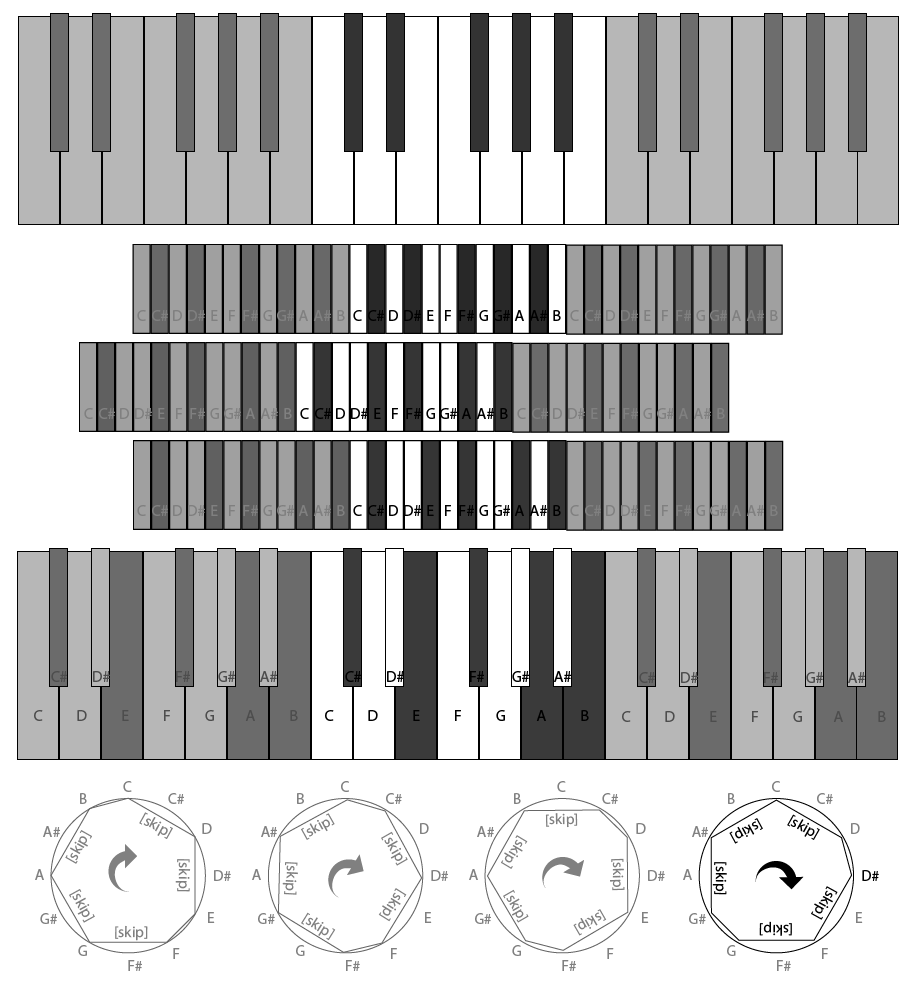
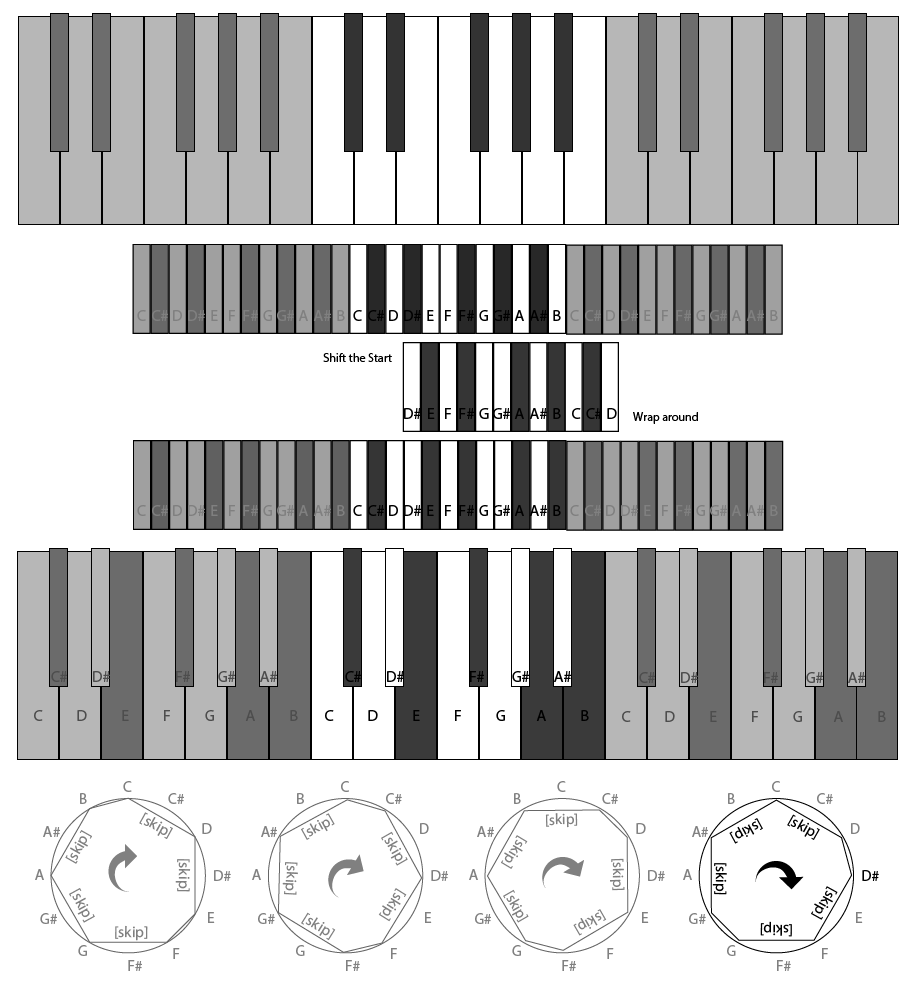
CLEANUP: add the shift

Changed region(s): [[0.0611, 0.3407, 0.7948, 0.4336]]

diff --git a/musicTest/static/js/main.6408dc8d.chunk.js b/musicTest/static/js/main.6408dc8d.chunk.js
@@ -1,0 +1,2 @@
+(window.webpackJsonp=window.webpackJsonp||[]).push([[0],[,,,,,,,,,,,,,function(e,t,a){e.exports=a(29)},,,,,,function(e,t,a){},function(e,t,a){},function(e,t,a){},function(e,t,a){},,,,,function(e,t,a){},function(e,t,a){},function(e,t,a){"use strict";a.r(t);var l=a(0),n=a.n(l),s=a(9),c=a.n(s),r=(a(19),a(1)),m=a(2),i=a(5),y=a(3),o=a(4),h=(a(20),a(21),function(e){return n.a.createElement("div",{className:"content"},e.children)}),p=function(e){return n.a.createElement("img",{className:"img-fluid",src:e.src,alt:e.alt})},E=function(e){return n.a.createElement("div",{className:"section",id:e.id},e.children)},u=(a(22),function(e){return n.a.createElement("div",{className:"major-break"},"\xa0")}),d=function(e){function t(e){return Object(r.a)(this,t),Object(i.a)(this,Object(y.a)(t).call(this))}return Object(o.a)(t,e),Object(m.a)(t,[{key:"render",value:function(){return n.a.createElement("div",{className:"Writeup"},n.a.createElement("hr",null),n.a.createElement("h1",{className:"header",id:"quick_writeup"},"Quick Description"),n.a.createElement(E,{id:"take_this_keyboard"},n.a.createElement("h2",null,"Let's take this keyboard..."),n.a.createElement(p,{src:"img/musicWriteup_pianoKeys.png",alt:"Basic Piano Keyboard"}),n.a.createElement(h,null,"Notice that there is a pattern that is repeated three times (the center repitition is highlighted for clarity)."),n.a.createElement(h,null,"Each pattern is what is called an octave, with each key representing a musical note."),n.a.createElement(h,null,"(Note that the shapes of the keys are significant - the white keys are Staff notes and the dark keys are the Sharp (#) notes.)"),n.a.createElement(p,{src:"img/musicWriteup_take_this_keyboard.png",alt:"Keyboard with black keys spaced out the same as the white keys"}),n.a.createElement(h,null,"For the purposes of this dicussion, the shape of the keys more indicate the scale of C Major and can cause confusion with other scales"),n.a.createElement(h,null,"So we will be mostly focusing on a smaller version of this same keyboard where all the keys are the same size."),n.a.createElement("hr",null)),n.a.createElement(u,null),n.a.createElement(E,{id:"semitone-wheel"},n.a.createElement("h2",null,"Octaves are Patterns"),n.a.createElement(h,null,'An "Octave" is the pattern that repeats. This can mean from C to the next C or the previous C.'),n.a.createElement(p,{src:"img/musicWriteup_octaves.png",alt:"Octave is the distance between the same tone."}),n.a.createElement(h,null,"Note that all notes have Octaves going up or down. It just is a matter of perspective."),n.a.createElement(p,{src:"img/musicWriteup_octaves-shift.png",alt:"An Octave starts from any key, not just C"}),n.a.createElement(h,null,"Each note represents a specific sound frequency. "),n.a.createElement(h,null,"The difference in going up an octave or down an octave of any note is doubling or halving the frequency respectively)"),n.a.createElement(p,{src:"img/musicWriteup_sine-wave.png",alt:"Sine-Wave moving up one octave and down one octave"}),n.a.createElement(h,null,"With 12 notes between octaves, each note can be thought of as an equal 1/12th logrithmic step between octaves. This applies for both white and black keys."),n.a.createElement(p,{src:"img/musicWriteup_play_all_the_keys.png",alt:"All keys in an octave are each semitones"}),n.a.createElement(h,null,"Sometimes this can best be thought of like a circle, with 12 notes written around."),n.a.createElement(p,{src:"img/musicWriteup_semitone-wheel.png",alt:"Circle with a 12 point polygon inscribed"}),n.a.createElement(h,null,"Each trip around the circle is then a new octave. Moving Clockwise goes up an Octave. Moving Counter-Clockwise goes down an Octave."),n.a.createElement("hr",null)),n.a.createElement(u,null),n.a.createElement("h2",null,"Play keys and Skip keys"),n.a.createElement(E,{id:"start-of-major-scales"},n.a.createElement(p,{src:"img/musicWriteup_pianoKeys.png",alt:"piano keys"}),n.a.createElement(h,null,"Lets take a closer look at the scale of C-Major..."),n.a.createElement("div",{className:"content center-align"},n.a.createElement("table",{className:"explaination-table"},n.a.createElement("thead",null,n.a.createElement("tr",null,n.a.createElement("th",null,"C"),n.a.createElement("th",null,"C#"),n.a.createElement("th",null,"D"),n.a.createElement("th",null,"D#"),n.a.createElement("th",null,"E"),n.a.createElement("th",null,"F"),n.a.createElement("th",null,"F#"),n.a.createElement("th",null,"G"),n.a.createElement("th",null,"G#"),n.a.createElement("th",null,"A"),n.a.createElement("th",null,"A#"),n.a.createElement("th",null,"B"))),n.a.createElement("tbody",null,n.a.createElement("tr",null,n.a.createElement("td",{className:"play-key start-key"},"Play Key"),n.a.createElement("td",{className:"skip-key"},"Skip Key"),n.a.createElement("td",{className:"play-key"},"Play Key"),n.a.createElement("td",{className:"skip-key"},"Skip Key"),n.a.createElement("td",{className:"play-key"},"Play Key"),n.a.createElement("td",{className:"play-key"},"Play Key"),n.a.createElement("td",{className:"skip-key"},"Skip Key"),n.a.createElement("td",{className:"play-key"},"Play Key"),n.a.createElement("td",{className:"skip-key"},"Skip Key"),n.a.createElement("td",{className:"play-key"},"Play Key"),n.a.createElement("td",{className:"skip-key"},"Skip Key"),n.a.createElement("td",{className:"play-key"},"Play Key"))))),n.a.createElement(h,null,"Note that the key of C-Major aligns pretty well with the keyboard above. ",n.a.createElement("br",null)," The ",n.a.createElement("b",null,"Lighter colored keys")," are the ",n.a.createElement("b",null,"'Play' keys"),", and the ",n.a.createElement("b",null,"darker colored keys")," are the ",n.a.createElement("b",null,"'Skip' keys"),"."),n.a.createElement("hr",null)),n.a.createElement(E,{id:"shift-d-minor"},n.a.createElement(h,null,"This is the scale of C#-Major (C-Sharp Major). Notice anything similar?"),n.a.createElement("table",{className:"explaination-table"},n.a.createElement("thead",null,n.a.createElement("tr",null,n.a.createElement("th",null,"C"),n.a.createElement("th",null,"C#"),n.a.createElement("th",null,"D"),n.a.createElement("th",null,"D#"),n.a.createElement("th",null,"E"),n.a.createElement("th",null,"F"),n.a.createElement("th",null,"F#"),n.a.createElement("th",null,"G"),n.a.createElement("th",null,"G#"),n.a.createElement("th",null,"A"),n.a.createElement("th",null,"A#"),n.a.createElement("th",null,"B"))),n.a.createElement("tbody",null,n.a.createElement("tr",null,n.a.createElement("td",{className:"play-key"},"Play Key"),n.a.createElement("td",{className:"play-key start-key"},"Play Key"),n.a.createElement("td",{className:"skip-key"},"Skip Key"),n.a.createElement("td",{className:"play-key"},"Play Key"),n.a.createElement("td",{className:"skip-key"},"Skip Key"),n.a.createElement("td",{className:"play-key"},"Play Key"),n.a.createElement("td",{className:"play-key"},"Play Key"),n.a.createElement("td",{className:"skip-key"},"Skip Key"),n.a.createElement("td",{className:"play-key"},"Play Key"),n.a.createElement("td",{className:"skip-key"},"Skip Key"),n.a.createElement("td",{className:"play-key"},"Play Key"),n.a.createElement("td",{className:"skip-key"},"Skip Key")))),n.a.createElement("hr",null)),n.a.createElement(E,{id:"shift-d-major"},n.a.createElement("span",null,"This is the scale of D-Major."),n.a.createElement("table",{className:"explaination-table"},n.a.createElement("thead",null,n.a.createElement("tr",null,n.a.createElement("th",null,"C"),n.a.createElement("th",null,"C#"),n.a.createElement("th",null,"D"),n.a.createElement("th",null,"D#"),n.a.createElement("th",null,"E"),n.a.createElement("th",null,"F"),n.a.createElement("th",null,"F#"),n.a.createElement("th",null,"G"),n.a.createElement("th",null,"G#"),n.a.createElement("th",null,"A"),n.a.createElement("th",null,"A#"),n.a.createElement("th",null,"B"))),n.a.createElement("tbody",null,n.a.createElement("tr",null,n.a.createElement("td",{className:"skip-key"},"Skip Key"),n.a.createElement("td",{className:"play-key"},"Play Key"),n.a.createElement("td",{className:"play-key start-key"},"Play Key"),n.a.createElement("td",{className:"skip-key"},"Skip Key"),n.a.createElement("td",{className:"play-key"},"Play Key"),n.a.createElement("td",{className:"skip-key"},"Skip Key"),n.a.createElement("td",{className:"play-key"},"Play Key"),n.a.createElement("td",{className:"play-key"},"Play Key"),n.a.createElement("td",{className:"skip-key"},"Skip Key"),n.a.createElement("td",{className:"play-key"},"Play Key"),n.a.createElement("td",{className:"skip-key"},"Skip Key"),n.a.createElement("td",{className:"play-key"},"Play Key")))),n.a.createElement("hr",null)),n.a.createElement(E,{id:"shift-e-minor"},n.a.createElement("span",null,"This is the scale of D#-Major."),n.a.createElement("table",{className:"explaination-table"},n.a.createElement("thead",null,n.a.createElement("tr",null,n.a.createElement("th",null,"C"),n.a.createElement("th",null,"C#"),n.a.createElement("th",null,"D"),n.a.createElement("th",null,"D#"),n.a.createElement("th",null,"E"),n.a.createElement("th",null,"F"),n.a.createElement("th",null,"F#"),n.a.createElement("th",null,"G"),n.a.createElement("th",null,"G#"),n.a.createElement("th",null,"A"),n.a.createElement("th",null,"A#"),n.a.createElement("th",null,"B"))),n.a.createElement("tbody",null,n.a.createElement("tr",null,n.a.createElement("td",{className:"play-key"},"Play Key"),n.a.createElement("td",{className:"skip-key"},"Skip Key"),n.a.createElement("td",{className:"play-key"},"Play Key"),n.a.createElement("td",{className:"play-key start-key"},"Play Key"),n.a.createElement("td",{className:"skip-key"},"Skip Key"),n.a.createElement("td",{className:"play-key"},"Play Key"),n.a.createElement("td",{className:"skip-key"},"Skip Key"),n.a.createElement("td",{className:"play-key"},"Play Key"),n.a.createElement("td",{className:"play-key"},"Play Key"),n.a.createElement("td",{className:"skip-key"},"Skip Key"),n.a.createElement("td",{className:"play-key"},"Play Key"),n.a.createElement("td",{className:"skip-key"},"Skip Key")))),n.a.createElement(h,null,"Did you notice a pattern?"),n.a.createElement(h,null,"We are simply shifting the start of the pattern"),n.a.createElement(p,{src:"img/musicWriteup_shifting_start.png",alt:"Shift the start"}),n.a.createElement("hr",null)),n.a.createElement(u,null),n.a.createElement(E,{id:"major-scale-wheel"},n.a.createElement(h,null,"Lets take a look at the key of C-Major again."),n.a.createElement("div",{className:"content center-align"},n.a.createElement("table",{className:"explaination-table"},n.a.createElement("thead",null,n.a.createElement("tr",null,n.a.createElement("th",null,"C"),n.a.createElement("th",null,"C#"),n.a.createElement("th",null,"D"),n.a.createElement("th",null,"D#"),n.a.createElement("th",null,"E"),n.a.createElement("th",null,"F"),n.a.createElement("th",null,"F#"),n.a.createElement("th",null,"G"),n.a.createElement("th",null,"G#"),n.a.createElement("th",null,"A"),n.a.createElement("th",null,"A#"),n.a.createElement("th",null,"B"))),n.a.createElement("tbody",null,n.a.createElement("tr",null,n.a.createElement("td",{className:"play-key start-key"},"Play Key"),n.a.createElement("td",{className:"skip-key"},"Skip Key"),n.a.createElement("td",{className:"play-key"},"Play Key"),n.a.createElement("td",{className:"skip-key"},"Skip Key"),n.a.createElement("td",{className:"play-key"},"Play Key"),n.a.createElement("td",{className:"play-key"},"Play Key"),n.a.createElement("td",{className:"skip-key"},"Skip Key"),n.a.createElement("td",{className:"play-key"},"Play Key"),n.a.createElement("td",{className:"skip-key"},"Skip Key"),n.a.createElement("td",{className:"play-key"},"Play Key"),n.a.createElement("td",{className:"skip-key"},"Skip Key"),n.a.createElement("td",{className:"play-key"},"Play Key"))))),n.a.createElement(h,null),n.a.createElement("hr",null)),n.a.createElement(E,{id:"play-all-keys"},n.a.createElement(h,null,"For the C-Major scale, we only play the white keys."),n.a.createElement(p,{src:"img/musicWriteup_take_this_keyboard.png",alt:"Keyboard with black keys spaced out the same as the white keys"}),n.a.createElement(h,null,'Yet each "Octave" is a pattern that repeats, meaning the pattern might be better represented in a wheel...'),n.a.createElement(p,{src:"img/musicWriteup_c-semitone-wheel.png",alt:"C Major represented as a polygon"}),n.a.createElement(h,null,"For the purpose of scales, we only need to play the lighter colored keys, but we can choose which keys they are."),n.a.createElement("table",{className:"explaination-table"},n.a.createElement("thead",null,n.a.createElement("tr",null,n.a.createElement("th",null,"Key"),n.a.createElement("th",null,"C"),n.a.createElement("th",null,"C#"),n.a.createElement("th",null,"D"),n.a.createElement("th",null,"D#"),n.a.createElement("th",null,"E"),n.a.createElement("th",null,"F"),n.a.createElement("th",null,"F#"),n.a.createElement("th",null,"G"),n.a.createElement("th",null,"G#"),n.a.createElement("th",null,"A"),n.a.createElement("th",null,"A#"),n.a.createElement("th",null,"B"))),n.a.createElement("tbody",null,n.a.createElement("tr",null,n.a.createElement("td",{className:""},"C"),n.a.createElement("td",{className:"play-key start-key"},"Play Key"),n.a.createElement("td",{className:"skip-key"},"Skip Key"),n.a.createElement("td",{className:"play-key"},"Play Key"),n.a.createElement("td",{className:"skip-key"},"Skip Key"),n.a.createElement("td",{className:"play-key"},"Play Key"),n.a.createElement("td",{className:"play-key"},"Play Key"),n.a.createElement("td",{className:"skip-key"},"Skip Key"),n.a.createElement("td",{className:"play-key"},"Play Key"),n.a.createElement("td",{className:"skip-key"},"Skip Key"),n.a.createElement("td",{className:"play-key"},"Play Key"),n.a.createElement("td",{className:"skip-key"},"Skip Key"),n.a.createElement("td",{className:"play-key"},"Play Key")),n.a.createElement("tr",null,n.a.createElement("td",{className:""},"C#"),n.a.createElement("td",{className:"play-key"},"Play Key"),n.a.createElement("td",{className:"play-key start-key"},"Play Key"),n.a.createElement("td",{className:"skip-key"},"Skip Key"),n.a.createElement("td",{className:"play-key"},"Play Key"),n.a.createElement("td",{className:"skip-key"},"Skip Key"),n.a.createElement("td",{className:"play-key"},"Play Key"),n.a.createElement("td",{className:"play-key"},"Play Key"),n.a.createElement("td",{className:"skip-key"},"Skip Key"),n.a.createElement("td",{className:"play-key"},"Play Key"),n.a.createElement("td",{className:"skip-key"},"Skip Key"),n.a.createElement("td",{className:"play-key"},"Play Key"),n.a.createElement("td",{className:"skip-key"},"Skip Key")),n.a.createElement("tr",null,n.a.createElement("td",{className:""},"D"),n.a.createElement("td",{className:"skip-key"},"Skip Key"),n.a.createElement("td",{className:"play-key"},"Play Key"),n.a.createElement("td",{className:"play-key start-key"},"Play Key"),n.a.createElement("td",{className:"skip-key"},"Skip Key"),n.a.createElement("td",{className:"play-key"},"Play Key"),n.a.createElement("td",{className:"skip-key"},"Skip Key"),n.a.createElement("td",{className:"play-key"},"Play Key"),n.a.createElement("td",{className:"play-key"},"Play Key"),n.a.createElement("td",{className:"skip-key"},"Skip Key"),n.a.createElement("td",{className:"play-key"},"Play Key"),n.a.createElement("td",{className:"skip-key"},"Skip Key"),n.a.createElement("td",{className:"play-key"},"Play Key")),n.a.createElement("tr",null,n.a.createElement("td",{className:""},"D#"),n.a.createElement("td",{className:"play-key"},"Play Key"),n.a.createElement("td",{className:"skip-key"},"Skip Key"),n.a.createElement("td",{className:"play-key"},"Play Key"),n.a.createElement("td",{className:"play-key start-key"},"Play Key"),n.a.createElement("td",{className:"skip-key"},"Skip Key"),n.a.createElement("td",{className:"play-key"},"Play Key"),n.a.createElement("td",{className:"skip-key"},"Skip Key"),n.a.createElement("td",{className:"play-key"},"Play Key"),n.a.createElement("td",{className:"play-key"},"Play Key"),n.a.createElement("td",{className:"skip-key"},"Skip Key"),n.a.createElement("td",{className:"play-key"},"Play Key"),n.a.createElement("td",{className:"skip-key"},"Skip Key")))),n.a.createElement("hr",null)),n.a.createElement(E,{id:"shift-in-pictures"},n.a.createElement("h2",null,"Lets look at them all together."),n.a.createElement(h,null,"Instead of representing the dark physical keys on the keyboard, we are paying attention to which keys to play or skip instead."),n.a.createElement(p,{src:"img/musicWriteup_striaghten_out_shifts.png",alt:"straighten up the shifted keys"}),n.a.createElement(h,null,"Thinking again in terms of the wheel, this just means we are just rotating the pattern around on the keys."),n.a.createElement(p,{src:"img/musicWriteup_c-semitone-wheel-together.png",alt:"Rotating the Semitone circle one 1/12th of the way around"}),n.a.createElement(h,null,"Notice we're just shifting which key is considered the starting key and where we start the pattern."),n.a.createElement(p,{src:"img/musicWriteup_shifting_start.png",alt:"Shift the pattern on where we start"}),n.a.createElement(h,null,"And because the notes are in a circle, the notes from below shift up-aswell."),n.a.createElement(p,{src:"img/musicWriteup_striaghten_out_shifts.png",alt:"shifting keys"}),n.a.createElement("hr",null)),n.a.createElement(E,{id:"shift-example-1"},n.a.createElement("h2",null,"Let's look closer at C#-Major"),n.a.createElement(p,{src:"img/musicWriteup_shift_1_d_minor.png",alt:"C-Major shift"}),n.a.createElement(h,null,"Playing only those Light Keys gives the Key of C-Major"),n.a.createElement("hr",null)),n.a.createElement(E,{id:"shift-example-2"},n.a.createElement("h2",null,"Let's look closer at D#-Major"),n.a.createElement(p,{src:"img/musicWriteup_shift_3_e_minor.png",alt:"D-Major shift"}),n.a.createElement(h,null,"Playing only those Light Keys gives the Key of D-Major")),n.a.createElement(u,null),n.a.createElement(E,{id:"virtual-keyboard"},n.a.createElement(h,null,"Or you can change the key in the virtual keyboard above and hear the tones yourself"),n.a.createElement(p,{src:"img/virtualKeyboard.png",alt:"virtual-keyboard"})))}}]),t}(l.Component),k=a(6),f=a(10),K=a.n(f),N=(a(27),function(e){function t(e){var a;Object(r.a)(this,t);var l=(a=Object(i.a)(this,Object(y.a)(t).call(this))).determineIfSharp(e.type);return a.state={isDown:!1,audioFile:a.calculateAudioFile(e.level,e.note,e.type,l),noteLabel:a.calculateNoteLabel(e.level,e.note,e.type,e.keyOffset,l),cssClasses:a.calculateCssClasses(e.note,e.keyOffset,e.selectedOffsets,l)},a}return Object(o.a)(t,e),Object(m.a)(t,[{key:"determineIfSharp",value:function(e){return"sharp"===e}},{key:"calculateAudioFile",value:function(e,t,a,l){return"lq/"+e+"_"+t+"_"+(l?"sharp":"_____")+"_lo.mp3"}},{key:"calculateNoteLabel",value:function(e,t,a,l,n){return"".concat(e," - ").concat(t).concat(n?"#":"")}},{key:"calculateCssClasses",value:function(e,t,a,l){return"note offset-".concat(t," note-").concat(e?e.toLowerCase():"").concat(l?"-sharp":"")}},{key:"handleFinishedPlaying",value:function(){this.setState(function(e){return{isDown:!1}})}},{key:"toggleIsDown",value:function(){this.setState(function(e){return{isDown:!e.isDown}})}},{key:"render",value:function(){var e=this,t=!1;return this.props.selectedKeyOffsets&&(t=this.props.selectedKeyOffsets.includes(this.props.keyOffset)),n.a.createElement("td",{className:this.state.cssClasses+" "+(this.state.isDown?"playing":"")+" "+(t?"selected":""),onClick:function(t){return e.toggleIsDown(!0,t)}},n.a.createElement("span",{title:this.audioFile},this.state.noteLabel),n.a.createElement(K.a,{url:this.state.audioFile,playStatus:this.state.isDown?"PLAYING":"STOPPED",onFinishedPlaying:function(t){return e.handleFinishedPlaying(t)}}))}}]),t}(l.Component)),g=function(e){function t(e){return Object(r.a)(this,t),Object(i.a)(this,Object(y.a)(t).call(this))}return Object(o.a)(t,e),Object(m.a)(t,[{key:"render",value:function(){return n.a.createElement("tr",{className:"octave"},n.a.createElement(N,{level:this.props.level,note:"C",type:"standard",keyOffset:1,selectedKeyOffsets:this.props.selectedKeyOffsets}),n.a.createElement(N,{level:this.props.level,note:"C",type:"sharp",keyOffset:2,selectedKeyOffsets:this.props.selectedKeyOffsets}),n.a.createElement(N,{level:this.props.level,note:"D",type:"standard",keyOffset:3,selectedKeyOffsets:this.props.selectedKeyOffsets}),n.a.createElement(N,{level:this.props.level,note:"D",type:"sharp",keyOffset:4,selectedKeyOffsets:this.props.selectedKeyOffsets}),n.a.createElement(N,{level:this.props.level,note:"E",type:"standard",keyOffset:5,selectedKeyOffsets:this.props.selectedKeyOffsets}),n.a.createElement(N,{level:this.props.level,note:"F",type:"standard",keyOffset:6,selectedKeyOffsets:this.props.selectedKeyOffsets}),n.a.createElement(N,{level:this.props.level,note:"F",type:"sharp",keyOffset:7,selectedKeyOffsets:this.props.selectedKeyOffsets}),n.a.createElement(N,{level:this.props.level,note:"G",type:"standard",keyOffset:8,selectedKeyOffsets:this.props.selectedKeyOffsets}),n.a.createElement(N,{level:this.props.level,note:"G",type:"sharp",keyOffset:9,selectedKeyOffsets:this.props.selectedKeyOffsets}),n.a.createElement(N,{level:this.props.level,note:"A",type:"standard",keyOffset:10,selectedKeyOffsets:this.props.selectedKeyOffsets}),n.a.createElement(N,{level:this.props.level,note:"A",type:"sharp",keyOffset:11,selectedKeyOffsets:this.props.selectedKeyOffsets}),n.a.createElement(N,{level:this.props.level,note:"B",type:"standard",keyOffset:12,selectedKeyOffsets:this.props.selectedKeyOffsets}))}}]),t}(l.Component),v=a(12),b=[1,3,5,6,8,10,12],O=function(e){function t(e){var a;return Object(r.a)(this,t),(a=Object(i.a)(this,Object(y.a)(t).call(this))).handleSelectChanged=a.handleSelectChanged.bind(Object(k.a)(Object(k.a)(a)),!1),a}return Object(o.a)(t,e),Object(m.a)(t,[{key:"mapKey",value:function(e){return b.map(function(t){return(t-1+e)%12+1})}},{key:"handleSelectChanged",value:function(e){console.log("change occurred");var t=document.getElementById("key-selector").value.split(":"),a=Object(v.a)(t,2),l=a[0],n=a[1],s=0;try{s=parseInt(l)}catch(r){}var c=this.mapKey(s);console.log(c),this.props.onKeyChange(c,n,e)}},{key:"render",value:function(){return n.a.createElement("form",{className:"KeySelector"},n.a.createElement("span",null,"Which key should we select?"),n.a.createElement("select",{id:"key-selector",onChange:this.handleSelectChanged},n.a.createElement("option",{value:"0:c-std"},"C"),n.a.createElement("option",{value:"1:c-major"},"C Major"),n.a.createElement("option",{value:"2:d-std"},"D"),n.a.createElement("option",{value:"3:d-major"},"D Major"),n.a.createElement("option",{value:"4:e-std"},"E"),n.a.createElement("option",{value:"5:f-std"},"F"),n.a.createElement("option",{value:"6:f-major"},"F Major"),n.a.createElement("option",{value:"7:g-std"},"G"),n.a.createElement("option",{value:"8:g-major"},"G Major"),n.a.createElement("option",{value:"9:a-std"},"A"),n.a.createElement("option",{value:"10:a-major"},"A Major"),n.a.createElement("option",{value:"11:b-std"},"B")))}}]),t}(l.Component),P=a(11),w=(a(28),[1,3,5,6,8,10,12]),j=function(e){function t(e){var a;return Object(r.a)(this,t),(a=Object(i.a)(this,Object(y.a)(t).call(this))).state={selectedOffsets:w,keyName:"c-std"},a.handleKeyChanged=a.handleKeyChanged.bind(Object(k.a)(Object(k.a)(a))),a}return Object(o.a)(t,e),Object(m.a)(t,[{key:"componentDidMount",value:function(){P.soundManager.setup({autoLoad:!0,ignoreMobileRestrictions:!0})}},{key:"handleKeyChanged",value:function(e,t,a){console.log("app registered the key changed"),this.setState(function(a){return{selectedOffsets:e,keyName:t}})}},{key:"render",value:function(){return n.a.createElement("div",{className:"VirtualPiano ".concat(this.state.keyName)},n.a.createElement("table",null,n.a.createElement("thead",null,n.a.createElement("tr",null,n.a.createElement("th",{className:"header note-c"},"C "),n.a.createElement("th",{className:"header note-c-sharp"},"C#"),n.a.createElement("th",{className:"header note-d"},"D"),n.a.createElement("th",{className:"header note-d-sharp"},"D#"),n.a.createElement("th",{className:"header note-e"},"E"),n.a.createElement("th",{className:"header note-f"},"F"),n.a.createElement("th",{className:"header note-f-sharp"},"F#"),n.a.createElement("th",{className:"header note-g"},"G"),n.a.createElement("th",{className:"header note-g-sharp"},"G#"),n.a.createElement("th",{className:"header note-a"},"A"),n.a.createElement("th",{className:"header note-a-sharp"},"A#"),n.a.createElement("th",{className:"header note-b"},"B"))),n.a.createElement("tbody",null,n.a.createElement("tr",null,n.a.createElement("td",{colSpan:"12"},n.a.createElement(O,{onKeyChange:this.handleKeyChanged}))),n.a.createElement(g,{level:"1",selectedKeyOffsets:this.state.selectedOffsets}),n.a.createElement(g,{level:"2",selectedKeyOffsets:this.state.selectedOffsets}),n.a.createElement(g,{level:"3",selectedKeyOffsets:this.state.selectedOffsets}),n.a.createElement(g,{level:"4",selectedKeyOffsets:this.state.selectedOffsets}),n.a.createElement(g,{level:"5",selectedKeyOffsets:this.state.selectedOffsets}),n.a.createElement(g,{level:"6",selectedKeyOffsets:this.state.selectedOffsets}),n.a.createElement(g,{level:"7",selectedKeyOffsets:this.state.selectedOffsets}))))}}]),t}(l.Component),S=function(e){function t(e){return Object(r.a)(this,t),Object(i.a)(this,Object(y.a)(t).call(this))}return Object(o.a)(t,e),Object(m.a)(t,[{key:"render",value:function(){return n.a.createElement("div",{className:"App"},n.a.createElement(j,null),n.a.createElement(d,null))}}]),t}(l.Component);Boolean("localhost"===window.location.hostname||"[::1]"===window.location.hostname||window.location.hostname.match(/^127(?:\.(?:25[0-5]|2[0-4][0-9]|[01]?[0-9][0-9]?)){3}$/));c.a.render(n.a.createElement(S,null),document.getElementById("root")),"serviceWorker"in navigator&&navigator.serviceWorker.ready.then(function(e){e.unregister()})}],[[13,1,2]]]);
+//# sourceMappingURL=main.6408dc8d.chunk.js.map

diff --git a/musicTest/index.html b/musicTest/index.html
@@ -1,1 +1,1 @@
-<!doctype html><html lang="en"><head><meta charset="utf-8"/><link rel="shortcut icon" href="/musicTest/favicon.ico"/><link rel="stylesheet" href="https://stackpath.bootstrapcdn.com/bootstrap/4.3.1/css/bootstrap.min.css" integrity="sha384-ggOyR0iXCbMQv3Xipma34MD+dH/1fQ784/j6cY/iJTQUOhcWr7x9JvoRxT2MZw1T" crossorigin="anonymous"><meta name="viewport" content="width=device-width,initial-scale=1,shrink-to-fit=no"/><meta name="theme-color" content="#000000"/><link rel="manifest" href="/musicTest/manifest.json"/><title>Understanding Music Scales</title><link href="/musicTest/static/css/main.3e971f3a.chunk.css" rel="stylesheet"></head><body><noscript>You need to enable JavaScript to run this app.</noscript><div id="root"></div><script>!function(l){function e(e){for(var r,t,n=e[0],o=e[1],u=e[2],i=0,f=[];i<n.length;i++)t=n[i],c[t]&&f.push(c[t][0]),c[t]=0;for(r in o)Object.prototype.hasOwnProperty.call(o,r)&&(l[r]=o[r]);for(s&&s(e);f.length;)f.shift()();return p.push.apply(p,u||[]),a()}function a(){for(var e,r=0;r<p.length;r++){for(var t=p[r],n=!0,o=1;o<t.length;o++){var u=t[o];0!==c[u]&&(n=!1)}n&&(p.splice(r--,1),e=i(i.s=t[0]))}return e}var t={},c={1:0},p=[];function i(e){if(t[e])return t[e].exports;var r=t[e]={i:e,l:!1,exports:{}};return l[e].call(r.exports,r,r.exports,i),r.l=!0,r.exports}i.m=l,i.c=t,i.d=function(e,r,t){i.o(e,r)||Object.defineProperty(e,r,{enumerable:!0,get:t})},i.r=function(e){"undefined"!=typeof Symbol&&Symbol.toStringTag&&Object.defineProperty(e,Symbol.toStringTag,{value:"Module"}),Object.defineProperty(e,"__esModule",{value:!0})},i.t=function(r,e){if(1&e&&(r=i(r)),8&e)return r;if(4&e&&"object"==typeof r&&r&&r.__esModule)return r;var t=Object.create(null);if(i.r(t),Object.defineProperty(t,"default",{enumerable:!0,value:r}),2&e&&"string"!=typeof r)for(var n in r)i.d(t,n,function(e){return r[e]}.bind(null,n));return t},i.n=function(e){var r=e&&e.__esModule?function(){return e.default}:function(){return e};return i.d(r,"a",r),r},i.o=function(e,r){return Object.prototype.hasOwnProperty.call(e,r)},i.p="/musicTest/";var r=window.webpackJsonp=window.webpackJsonp||[],n=r.push.bind(r);r.push=e,r=r.slice();for(var o=0;o<r.length;o++)e(r[o]);var s=n;a()}([])</script><script src="/musicTest/static/js/2.63a7d94e.chunk.js"></script><script src="/musicTest/static/js/main.0e1318ae.chunk.js"></script></body></html>
+<!doctype html><html lang="en"><head><meta charset="utf-8"/><link rel="shortcut icon" href="/musicTest/favicon.ico"/><link rel="stylesheet" href="https://stackpath.bootstrapcdn.com/bootstrap/4.3.1/css/bootstrap.min.css" integrity="sha384-ggOyR0iXCbMQv3Xipma34MD+dH/1fQ784/j6cY/iJTQUOhcWr7x9JvoRxT2MZw1T" crossorigin="anonymous"><meta name="viewport" content="width=device-width,initial-scale=1,shrink-to-fit=no"/><meta name="theme-color" content="#000000"/><link rel="manifest" href="/musicTest/manifest.json"/><title>Understanding Music Scales</title><link href="/musicTest/static/css/main.3e971f3a.chunk.css" rel="stylesheet"></head><body><noscript>You need to enable JavaScript to run this app.</noscript><div id="root"></div><script>!function(l){function e(e){for(var r,t,n=e[0],o=e[1],u=e[2],i=0,f=[];i<n.length;i++)t=n[i],c[t]&&f.push(c[t][0]),c[t]=0;for(r in o)Object.prototype.hasOwnProperty.call(o,r)&&(l[r]=o[r]);for(s&&s(e);f.length;)f.shift()();return p.push.apply(p,u||[]),a()}function a(){for(var e,r=0;r<p.length;r++){for(var t=p[r],n=!0,o=1;o<t.length;o++){var u=t[o];0!==c[u]&&(n=!1)}n&&(p.splice(r--,1),e=i(i.s=t[0]))}return e}var t={},c={1:0},p=[];function i(e){if(t[e])return t[e].exports;var r=t[e]={i:e,l:!1,exports:{}};return l[e].call(r.exports,r,r.exports,i),r.l=!0,r.exports}i.m=l,i.c=t,i.d=function(e,r,t){i.o(e,r)||Object.defineProperty(e,r,{enumerable:!0,get:t})},i.r=function(e){"undefined"!=typeof Symbol&&Symbol.toStringTag&&Object.defineProperty(e,Symbol.toStringTag,{value:"Module"}),Object.defineProperty(e,"__esModule",{value:!0})},i.t=function(r,e){if(1&e&&(r=i(r)),8&e)return r;if(4&e&&"object"==typeof r&&r&&r.__esModule)return r;var t=Object.create(null);if(i.r(t),Object.defineProperty(t,"default",{enumerable:!0,value:r}),2&e&&"string"!=typeof r)for(var n in r)i.d(t,n,function(e){return r[e]}.bind(null,n));return t},i.n=function(e){var r=e&&e.__esModule?function(){return e.default}:function(){return e};return i.d(r,"a",r),r},i.o=function(e,r){return Object.prototype.hasOwnProperty.call(e,r)},i.p="/musicTest/";var r=window.webpackJsonp=window.webpackJsonp||[],n=r.push.bind(r);r.push=e,r=r.slice();for(var o=0;o<r.length;o++)e(r[o]);var s=n;a()}([])</script><script src="/musicTest/static/js/2.63a7d94e.chunk.js"></script><script src="/musicTest/static/js/main.6408dc8d.chunk.js"></script></body></html>

diff --git a/musicTest/precache-manifest.ea053698ddc75fd5c638dce9ed462921.js b/musicTest/precache-manifest.ea053698ddc75fd5c638dce9ed462921.js
@@ -4,19 +4,19 @@ self.__precacheManifest = [
     "url": "/musicTest/static/js/runtime~main.0cf311f6.js"
   },
   {
-    "revision": "0e1318ae8ee738406d72",
-    "url": "/musicTest/static/js/main.0e1318ae.chunk.js"
+    "revision": "6408dc8d009c3b123968",
+    "url": "/musicTest/static/js/main.6408dc8d.chunk.js"
   },
   {
     "revision": "63a7d94efc3a67c9cfb1",
     "url": "/musicTest/static/js/2.63a7d94e.chunk.js"
   },
   {
-    "revision": "0e1318ae8ee738406d72",
+    "revision": "6408dc8d009c3b123968",
     "url": "/musicTest/static/css/main.3e971f3a.chunk.css"
   },
   {
-    "revision": "3f77681997b420eb7c4f47e62073ce7a",
+    "revision": "fdb413eef9dc25c9af5963655bd6d73e",
     "url": "/musicTest/index.html"
   }
 ];

diff --git a/musicTest/service-worker.js b/musicTest/service-worker.js
@@ -14,7 +14,7 @@
 importScripts("https://storage.googleapis.com/workbox-cdn/releases/3.6.3/workbox-sw.js");
 
 importScripts(
-  "/musicTest/precache-manifest.0b0857f86edbe6e974d7e269dce259db.js"
+  "/musicTest/precache-manifest.ea053698ddc75fd5c638dce9ed462921.js"
 );
 
 workbox.clientsClaim();
